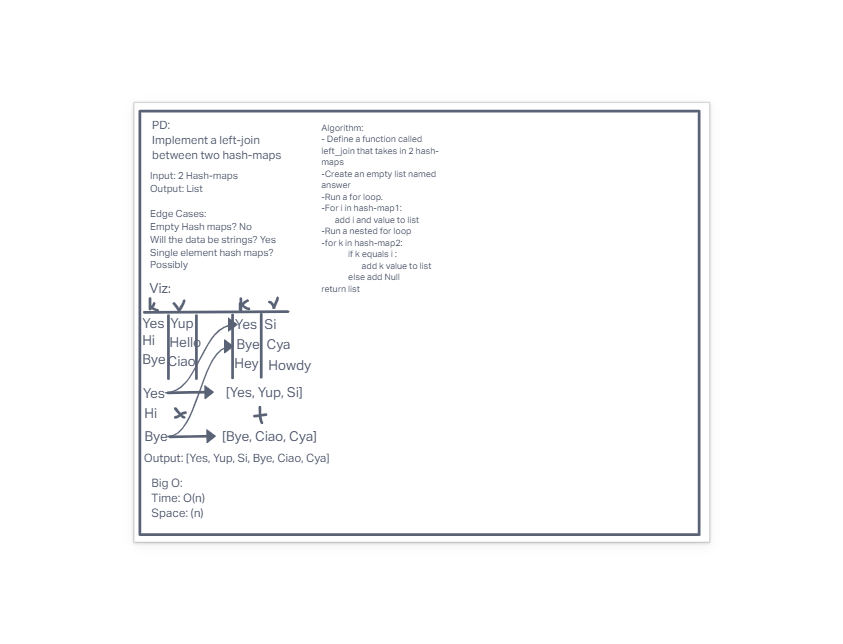
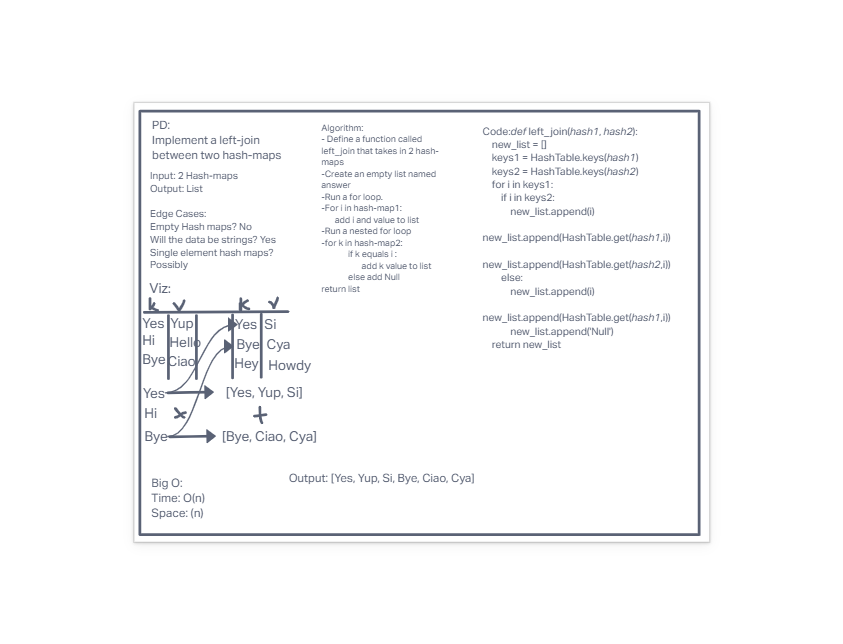
updated code challenge tests

diff --git a/python/tests/test_hash_left_join.py b/python/tests/test_hash_left_join.py
@@ -1,0 +1,39 @@
+from code_challenges.hash_table.hash_table import HashTable, Node
+from code_challenges.hash_left_join.left_join import left_join
+import pytest
+
+
+def test_hash_keys1():
+    hash1 = HashTable()
+    hash1.set('Hi','Hello')
+    hash1.set('Dog', 'Good')
+    hash2 = HashTable()
+    hash2.set('Hi','Holla')
+    hash2.set('Bye', 'Ciao')
+    assert left_join(hash1,hash2) == ['Hi','Hello','Holla','Dog', 'Good', 'Null']
+
+def test_hash_keys2():
+    hash1 = HashTable()
+    hash1.set('Hi','Hello')
+    hash1.set('Dog', 'Good')
+    hash1.set('Yes', 'Yup')
+    hash2 = HashTable()
+    hash2.set('Hi','Holla')
+    hash2.set('Bye', 'Ciao')
+    hash2.set('Yes', 'Ok')
+    assert left_join(hash1,hash2) == ['Hi','Hello','Holla','Dog', 'Good', 'Null', 'Yes', 'Yup','Ok']
+
+def test_hash_keys3():
+    hash1 = HashTable()
+    hash1.set('Hi','Hello')
+    hash1.set('Dog', 'Good')
+    hash1.set('Ok','Yup')
+    hash1.set('Bye', 'Cya')
+    hash2 = HashTable()
+    hash2.set('Hi','Holla')
+    hash2.set('Ok','Si')
+    hash2.set('Bye', 'Ciao')
+    hash2.set('No', 'Nope')
+    assert left_join(hash1,hash2) == ['Hi','Hello','Holla','Dog','Good','Null','Bye', 'Cya','Ciao','Ok','Yup','Si']
+
+

diff --git a/python/code_challenges/hash_left_join/left_join.py b/python/code_challenges/hash_left_join/left_join.py
@@ -1,14 +1,16 @@
 from code_challenges.hash_table.hash_table import HashTable
 
 def left_join(hash1, hash2):
-    key = HashTable.keys()
     new_list = []
-    keys1 = hash1.key
+    keys1 = HashTable.keys(hash1)
+    keys2 = HashTable.keys(hash2)
     for i in keys1:
         if i in keys2:
-            new_list.append(hash1[i])
-            new_list.append(hash2[i])
+            new_list.append(i)
+            new_list.append(HashTable.get(hash1,i))
+            new_list.append(HashTable.get(hash2,i))
         else:
-            new_list.append(hash1[i])
+            new_list.append(i)
+            new_list.append(HashTable.get(hash1,i))
             new_list.append('Null')
     return new_list

diff --git a/python/tree_intersection/tree_intersection.py b/python/tree_intersection/tree_intersection.py
@@ -1,5 +1,5 @@
 from code_challenges.stack_and_queue.queue import Queue
-from hash_table.hash_table import HashTable
+from code_challenges.hash_table.hash_table import HashTable
 
 def tree_intersect(tree1, tree2):
     int_arr = []
